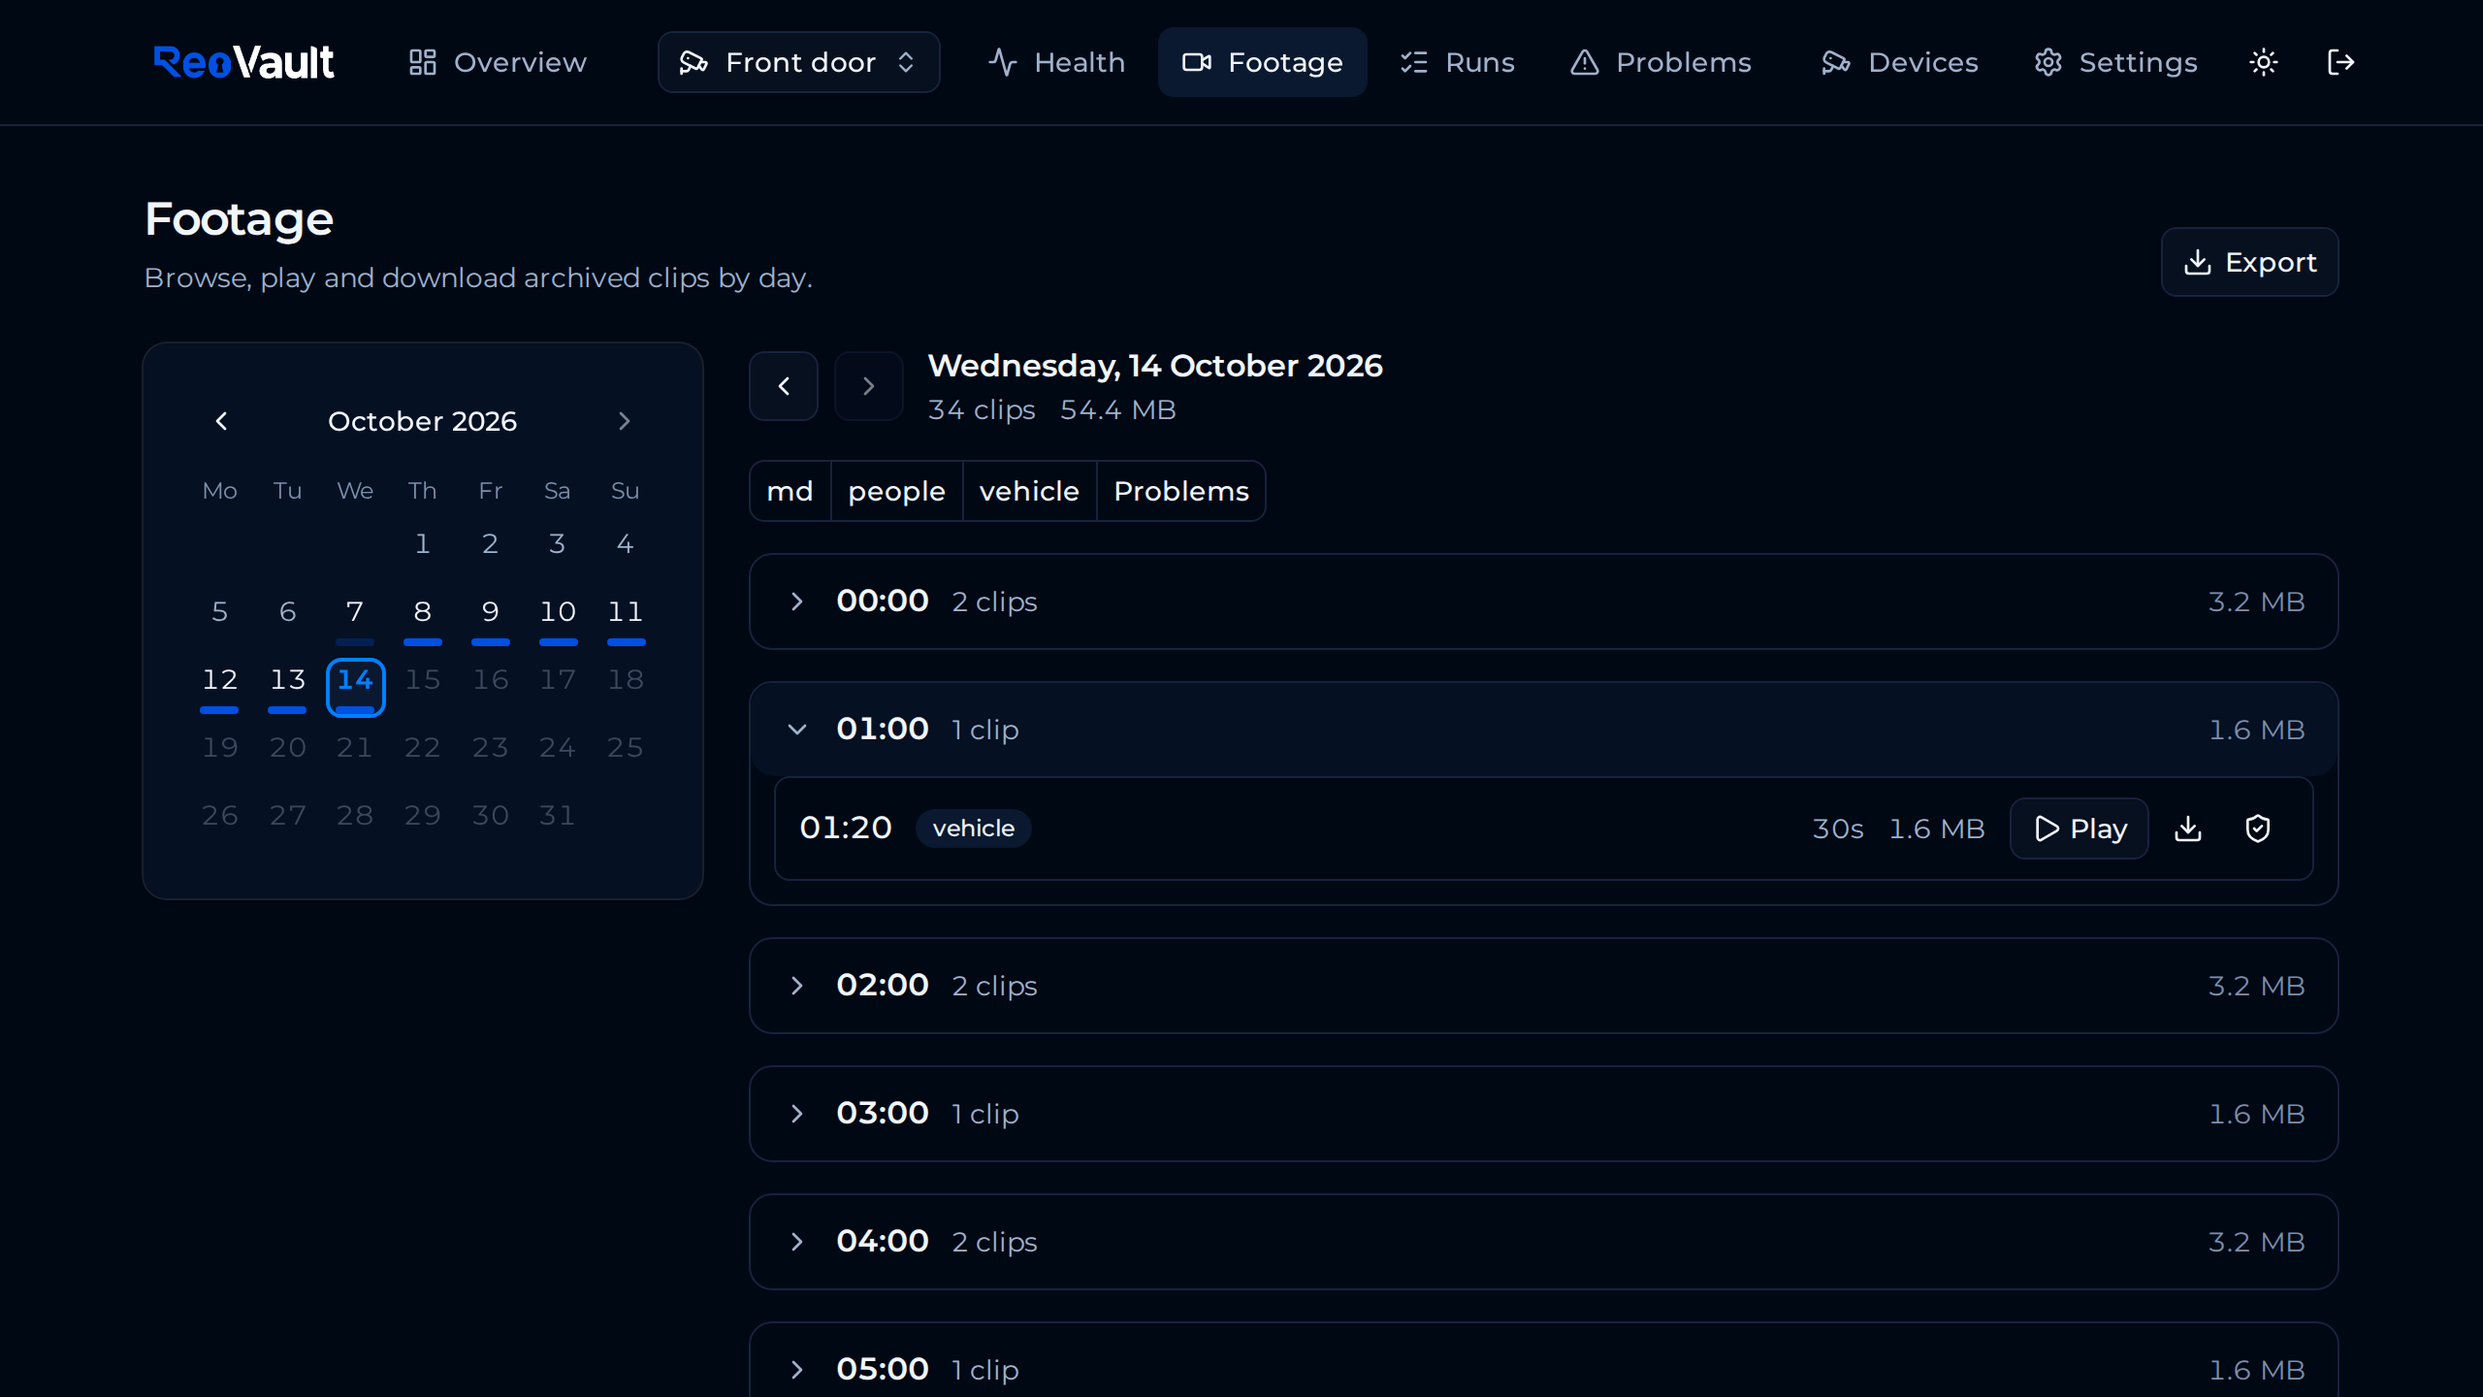
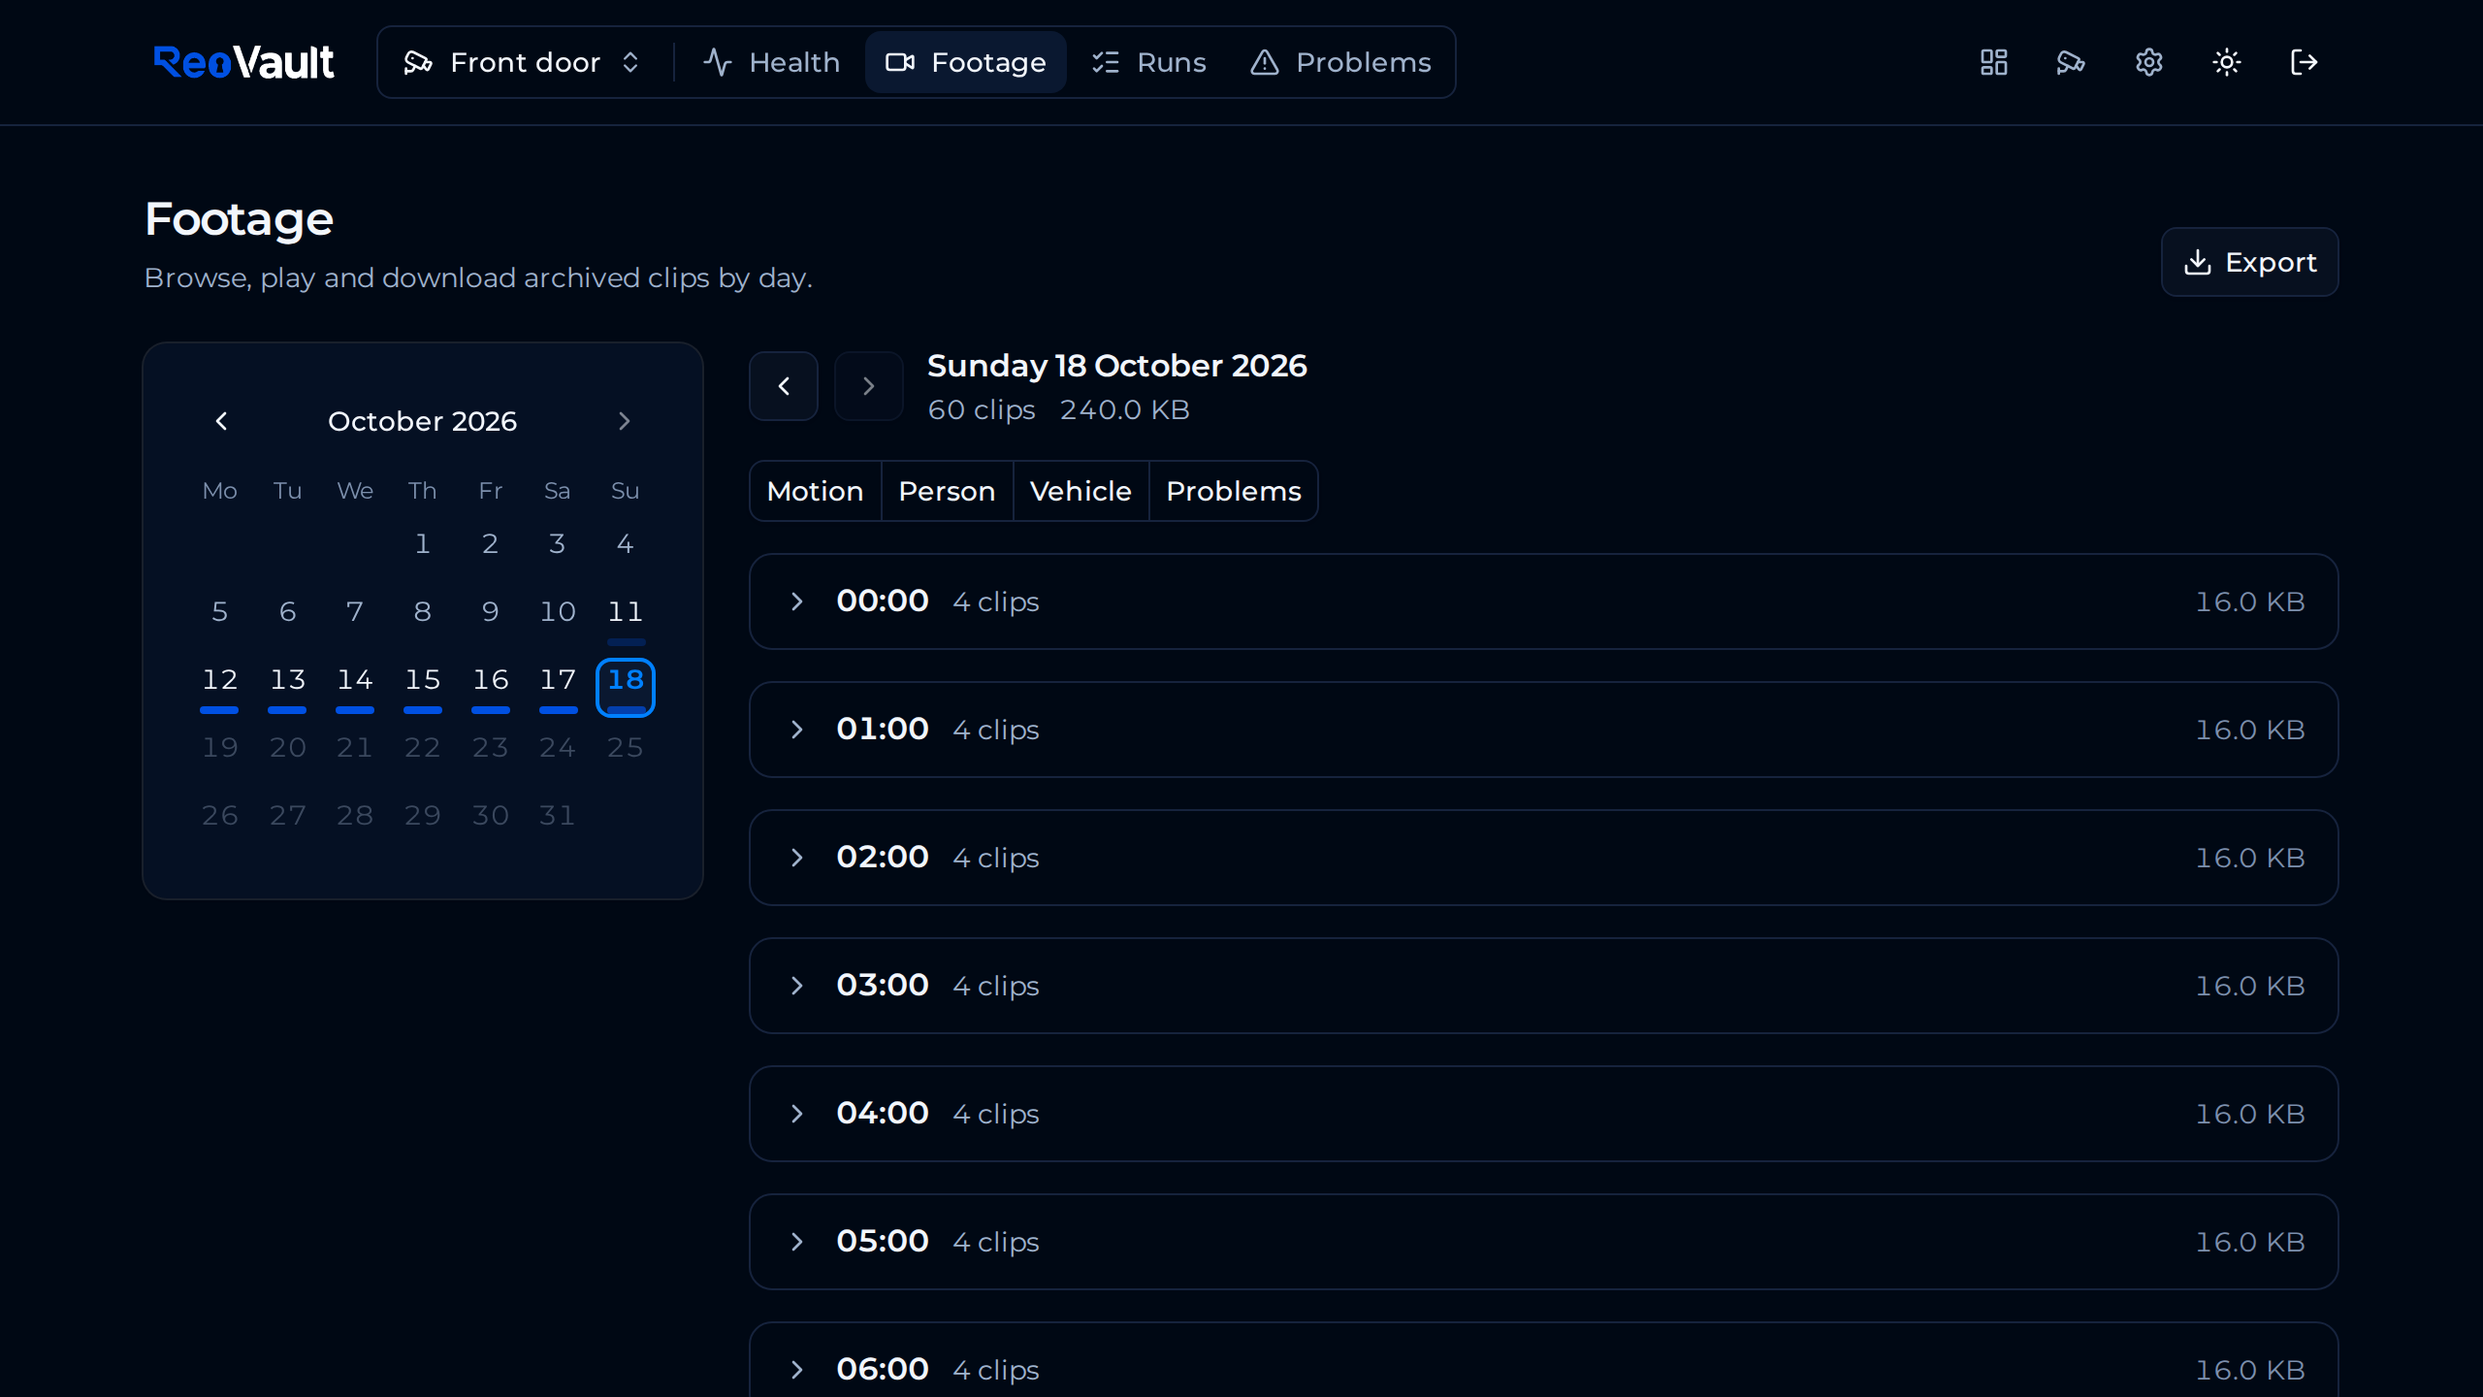
feat: update documentation and add dashboard guide

diff --git a/dashboard/src/routes/+layout.svelte b/dashboard/src/routes/+layout.svelte
@@ -239,16 +239,16 @@
 											aria-current={active(item.href) ? 'page' : undefined}
 											aria-label={item.label}
 											class={cn(
-												'text-muted-foreground hover:text-foreground hover:bg-muted flex h-9 items-center gap-2 rounded-md px-2.5 text-sm font-medium transition-colors xl:px-3',
+												'text-muted-foreground hover:text-foreground hover:bg-muted flex h-9 items-center gap-2 rounded-md px-2.5 text-sm font-medium transition-colors min-[1400px]:px-3',
 												active(item.href) && 'bg-muted text-foreground'
 											)}
 										>
 											<item.icon class="size-4" />
-											<span class="hidden xl:inline">{item.label}</span>
+											<span class="hidden min-[1400px]:inline">{item.label}</span>
 										</a>
 									{/snippet}
 								</Tooltip.Trigger>
-								<Tooltip.Content class="xl:hidden">{item.label}</Tooltip.Content>
+								<Tooltip.Content class="min-[1400px]:hidden">{item.label}</Tooltip.Content>
 							</Tooltip.Root>
 						{/each}
 					</nav>

diff --git a/docs/dashboard.md b/docs/dashboard.md
@@ -1,0 +1,109 @@
+# Dashboard
+
+The container serves the dashboard on port 8080: a single-page app on a typed
+JSON API, updated live over Server-Sent Events, and installable as a PWA (Add
+to Home Screen) on a phone. Log in with the `[web] email` and the password set
+by `reovault web set-password`.
+
+**Overview** and **Devices** cover every camera. The other pages (Health,
+Footage, Runs, Problems) show the camera picked in the header; the choice is
+kept in the URL as `?device=`, so a link opens on the same camera.
+
+## Overview
+
+The home page. The archive's disk (ReoVault's share, free space, how long the
+room left lasts at the current rate, and the retention policy), then one tile
+per camera's SD card: how full it is, a timeline of what's on it coloured by
+archived, waiting or failed, and a verdict:
+
+* **All archived**: nothing on the card is waiting.
+* **Waiting**: clips on the card that aren't archived yet. Normal between runs.
+* **At risk**: the card is looping and the oldest waiting clip will be
+  overwritten soon. This is the same condition the `coverage` alert fires on.
+* **Not mounted**: the camera reports no SD card.
+* **No data yet**: no archive run has sampled the card yet.
+
+Clips the card overwrote before they were archived are reported as a warning
+on top of the verdict (see [Problems](#problems)).
+[Architecture](architecture.md#scheduler) has the exact thresholds. The
+Overview is built only from stored samples, so loading it never contacts a
+camera. A card's sample is refreshed after every archive run.
+
+## Health
+
+One camera in detail: its SD card, recent runs, today's footage, footage
+archived and detections per type over the last 30 days, and projected growth.
+
+The manual actions live here:
+
+* **Run now** archives the last 48 hours, the same window as a scheduled run.
+* **Backfill** archives a time range you pick, in the camera's own timezone,
+  up to 90 days at once. Clips already archived are skipped.
+* **Check vault** runs a reconcile pass (see `reovault reconcile` in the
+  [CLI reference](cli-reference.md)).
+* **Stop** ends a run in progress after the clip it is working on. Clips not
+  reached yet are picked up by the next run.
+
+A run in progress shows live progress.
+
+## Footage
+
+Date-first browsing: a month calendar shows activity per day and drills into a
+day, with clips grouped by hour and filterable by detection type. The left and
+right arrow keys step through days. On a phone, clips open in a bottom-sheet
+player that steps through the hour.
+
+Clips play straight from the encrypted vault over HTTP `Range` requests, so
+only what is being watched or seeked to is decrypted. **Export** downloads a
+date range as one zip, up to 31 days and 5000 clips, one export at a time.
+
+## Runs
+
+Every archive run of the camera, newest first, with what it found, archived
+and failed, and the next scheduled runs under **Coming up**. **Only runs with
+failures** hides the clean ones. Open a run for its per-recording detail.
+
+## Problems
+
+Recordings that failed or were quarantined. **Retry** queues one recording for
+the next run, **Retry all** does the same for every problem recording of the
+camera.
+
+Above the list, a **lost** summary counts clips the SD card overwrote before
+they could be archived. Nothing can bring those back, so they are never
+retried and never alerted on. **Dismiss** acknowledges them so they stop
+counting as an open issue. If the camera ever lists a lost clip again, it is
+archived normally.
+
+## Devices
+
+Every camera ReoVault knows about, with its status, archive totals, last run
+and SD card usage. From here you can:
+
+* **Add a camera** from LAN discovery. The camera password goes straight into
+  `reolink-cli`'s own encrypted registry and is never stored by ReoVault (see
+  [Security](security.md#credentials)). The camera is appended to
+  `[[devices]]` in `reovault.toml`.
+* **Turn archiving off or on** (`enabled`). A camera that is off keeps its
+  footage.
+* **Edit** its name, timezone and, optionally, its own schedule
+  (`[devices.schedule]`). Its `alias` and `channel` can't be changed here,
+  since they match the camera to its archive.
+
+## Settings
+
+The app-wide part of `reovault.toml`. Every save is written back into the file
+(see [Configuration](configuration.md#the-file-is-the-source-of-truth)).
+
+* **Schedule**: the default `[schedule]` every camera follows unless it has
+  its own.
+* **Retention**: `[retention]`. A policy that would delete footage right away
+  asks for confirmation first, showing how much would go.
+* **Alerts**: the channels, the alerts open right now, which conditions alert
+  (`[alerts.rules]`), and a **Send test** button.
+* **Web**: `[web]`. Only the session length, login attempt limits and page
+  size can be changed here; the rest is shown read-only.
+* **System**: `[storage]` and `[reolink_cli]`, read-only.
+
+A field set by a `REOVAULT_*` environment variable shows a lock and can't be
+changed from the dashboard.

diff --git a/README.md b/README.md
@@ -13,7 +13,7 @@
 
 Local-first, self-hosted archiving of Reolink camera recordings: pulls recordings off the camera's SD card before the loop-overwrite eats them, verifies them, encrypts them at rest, and stores them durably.
 
-Full docs (installation, configuration reference, CLI reference, architecture): **https://wiebe-vandendriessche.github.io/reovault/**
+Full docs (installation, dashboard guide, configuration reference, CLI reference, architecture): **https://wiebe-vandendriessche.github.io/reovault/**
 
 ## Screenshots
 
@@ -56,7 +56,7 @@ docker compose exec reovault reovault web set-password
 
 Create `config/reovault.toml` and the `data/` folders before the first `docker compose` command: otherwise Docker creates them as root, and the container (uid 1000) can't write to them. Upgrade with `docker compose pull && docker compose up -d`; coming from 0.3, see [Upgrading](https://wiebe-vandendriessche.github.io/reovault/installation/#upgrading).
 
-Everything in `reovault.toml` is editable on the dashboard's Settings page, which writes your changes back into the file (comments kept), and edits you make to the file show up in the dashboard within seconds.
+Everything in `reovault.toml` except the infrastructure settings (storage paths, `reolink-cli`, the web bind/cookie/proxy fields) is editable on the dashboard's Settings page, which writes your changes back into the file (comments kept), and edits you make to the file show up in the dashboard within seconds.
 
 `compose.yaml` supports two deployment modes: behind a reverse proxy (Nginx Proxy Manager, Traefik, ...) with no port published by default, or a direct port publish for LAN/VPN access. See the comments at the top of `compose.yaml` and [Security](https://wiebe-vandendriessche.github.io/reovault/security/#deployment-modes) for what each needs.
 
@@ -71,7 +71,7 @@ The container serves the dashboard on port 8080: a Svelte single-page app on a t
 * **Overview** (home): the archive's disk (ReoVault's share, free space and how long it lasts at the current rate) and one tile per camera's SD card: how full it is, a timeline of what's on it coloured by archived, waiting or failed, and a plain verdict such as "All archived" or "At risk: the oldest unarchived clip is overwritten in about 22 hours".
 * **Health** (per camera): that camera's SD card, its runs, today's footage, footage archived and detections per type over the last 30 days, and run now, backfill or check the vault on demand, with live progress while a run is going.
 * **Footage**: date-first browsing (a month calendar drills into a day grouped by hour), filtered by detection type, with per-day counts on hover. On a phone, clips open in a bottom-sheet player that steps through the hour. Clips play straight from the encrypted vault over HTTP `Range` requests, never decrypting more than what's being watched or seeked to, and a date range downloads as one zip.
-* **Runs** and **Problems**: every archive run, and the recordings that failed, with a retry for one or all of them.
+* **Runs** and **Problems**: every archive run, and the recordings that failed, with a retry for one or all of them, plus a count of clips the SD card overwrote before they could be archived.
 * **Devices**: every camera with its status, adding one from LAN discovery, turning archiving on or off, and editing its name, timezone and (optionally) its own schedule.
 * **Settings**: the app-wide part of `reovault.toml`: the default schedule, retention, alerts, and the web and system settings.
 

diff --git a/docs/installation.md b/docs/installation.md
@@ -42,9 +42,10 @@ If your user isn't uid 1000, run `sudo chown -R 1000:1000 data` once.
   (firewall, VPN, trusted LAN only) is then on you, same as any other
   self-hosted app you publish a port for.
 * **Reverse proxy** (Traefik, Nginx Proxy Manager, Caddy, ...) on a shared
-  Docker network, the active default in `compose.yaml`. Set
-  `REOVAULT_WEB__FORWARDED_ALLOW_IPS` to the proxy's own address (never
-  `"*"`, see [Security](security.md)).
+  Docker network, the active default in `compose.yaml`. Uncomment the
+  service's `networks:` and the top-level `networks:` block and name your
+  proxy's network there. Set `REOVAULT_WEB__FORWARDED_ALLOW_IPS` to the
+  proxy's own address or subnet (never `"*"`, see [Security](security.md)).
 
 `./config/` holds `reovault.toml` and is mounted read-write: the dashboard's
 Settings page writes changes back into the file (comments and layout kept,
@@ -90,6 +91,7 @@ dashboard (schedules, retention, alert rules, cameras added from the
 dashboard) are written into `reovault.toml` once; from then on the file is
 the single source of truth. Until the folder is writable, the dashboard shows
 settings read-only and nothing is migrated.
+
 ### Verifying the image
 
 Release images are signed keylessly with [cosign](https://docs.sigstore.dev/)
@@ -115,9 +117,10 @@ builds and starts it; everything else above stays the same.
 
 ReoVault can tell you when archiving needs attention: a failed run, recordings
 that failed or were quarantined, clips on a camera's SD card at risk of being
-overwritten before they're archived, or the camera gateway being down. Channels are configured in `reovault.toml` (or
-`REOVAULT_ALERTS__*` env vars), with anything secret in a file, the same way
-as the master passphrase:
+overwritten before they're archived, or the camera gateway being down.
+Channels are configured in `reovault.toml` (or `REOVAULT_ALERTS__*` env vars,
+or the dashboard under Settings, Alerts), with anything secret in a file, the
+same way as the master passphrase:
 
 ```toml
 [alerts]
@@ -146,3 +149,6 @@ also has a "Send test" button. See [Configuration](configuration.md#alerts).
 4. `[web] email` is set, and `reovault web set-password` is run before exposing the dashboard.
    Until a password is set, the API answers 503 and the dashboard says so (the healthcheck
    still works).
+
+Then open the dashboard and log in; [Dashboard](dashboard.md) walks through
+each page.

diff --git a/docs/configuration.md b/docs/configuration.md
@@ -154,10 +154,10 @@ read-only.
 
 ## `[alerts]`
 
-Where alerts go. These fields are config-only, never stored in the database
-or editable from the dashboard: a webhook URL or an ntfy token is a
-credential, so anything secret is read from a file (mount it as a Docker
-secret).
+Where alerts go. A webhook URL or an ntfy token is a credential, so anything
+secret is read from a file (mount it as a Docker secret) and the config only
+holds the file's path. Settings, Alerts can edit these fields, which apply
+live; the secrets themselves are never written to the file or the database.
 
 | Field | Type | Default | Notes |
 |---|---|---|---|

diff --git a/docs/index.md b/docs/index.md
@@ -61,6 +61,8 @@ dashboard. See [Architecture](architecture.md) for the full picture.
 ## Where to go next
 
 * [Installation](installation.md): Docker Compose setup, upgrading, and alerts
+* [Compatible devices](compatibility.md): camera models verified so far
+* [Dashboard](dashboard.md): what each page shows and does
 * [Configuration](configuration.md): every `reovault.toml` / env var option
 * [CLI reference](cli-reference.md): every `reovault` subcommand
 * [Architecture](architecture.md): how the pieces fit together
